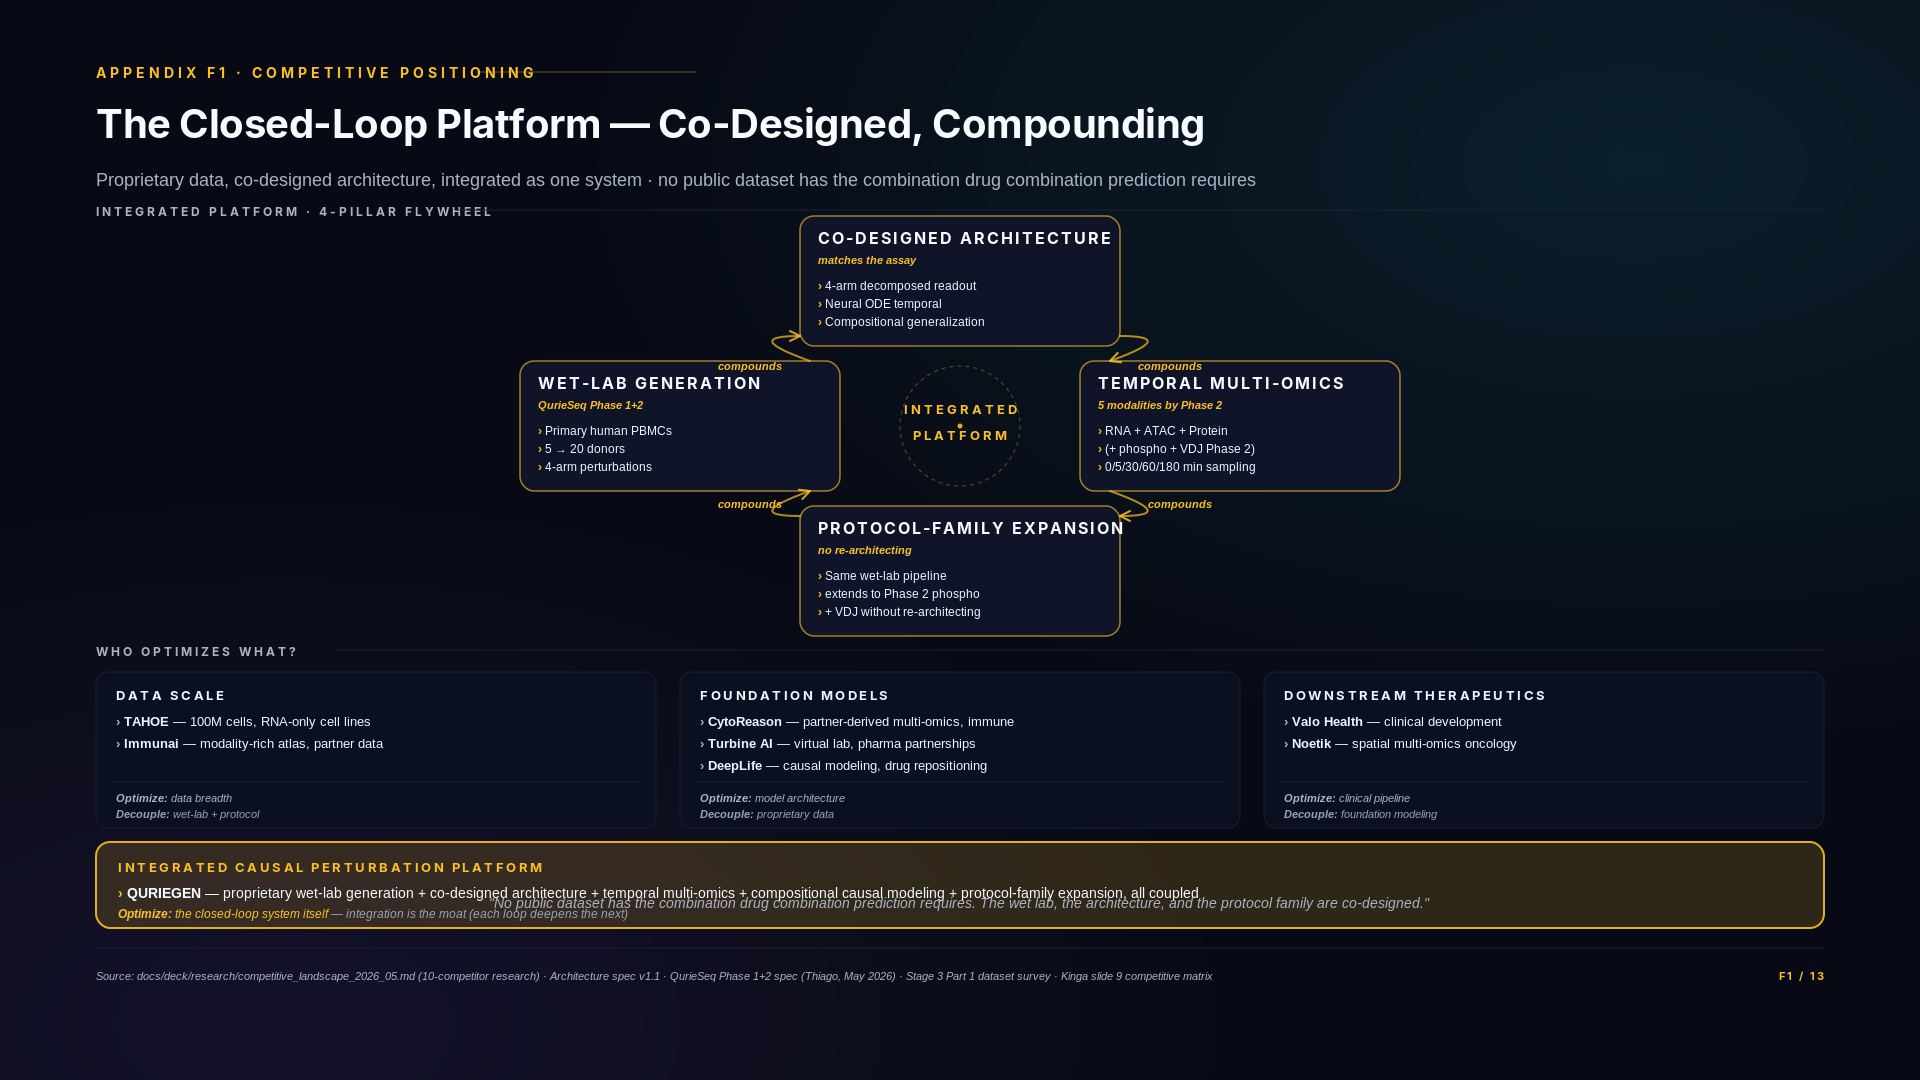
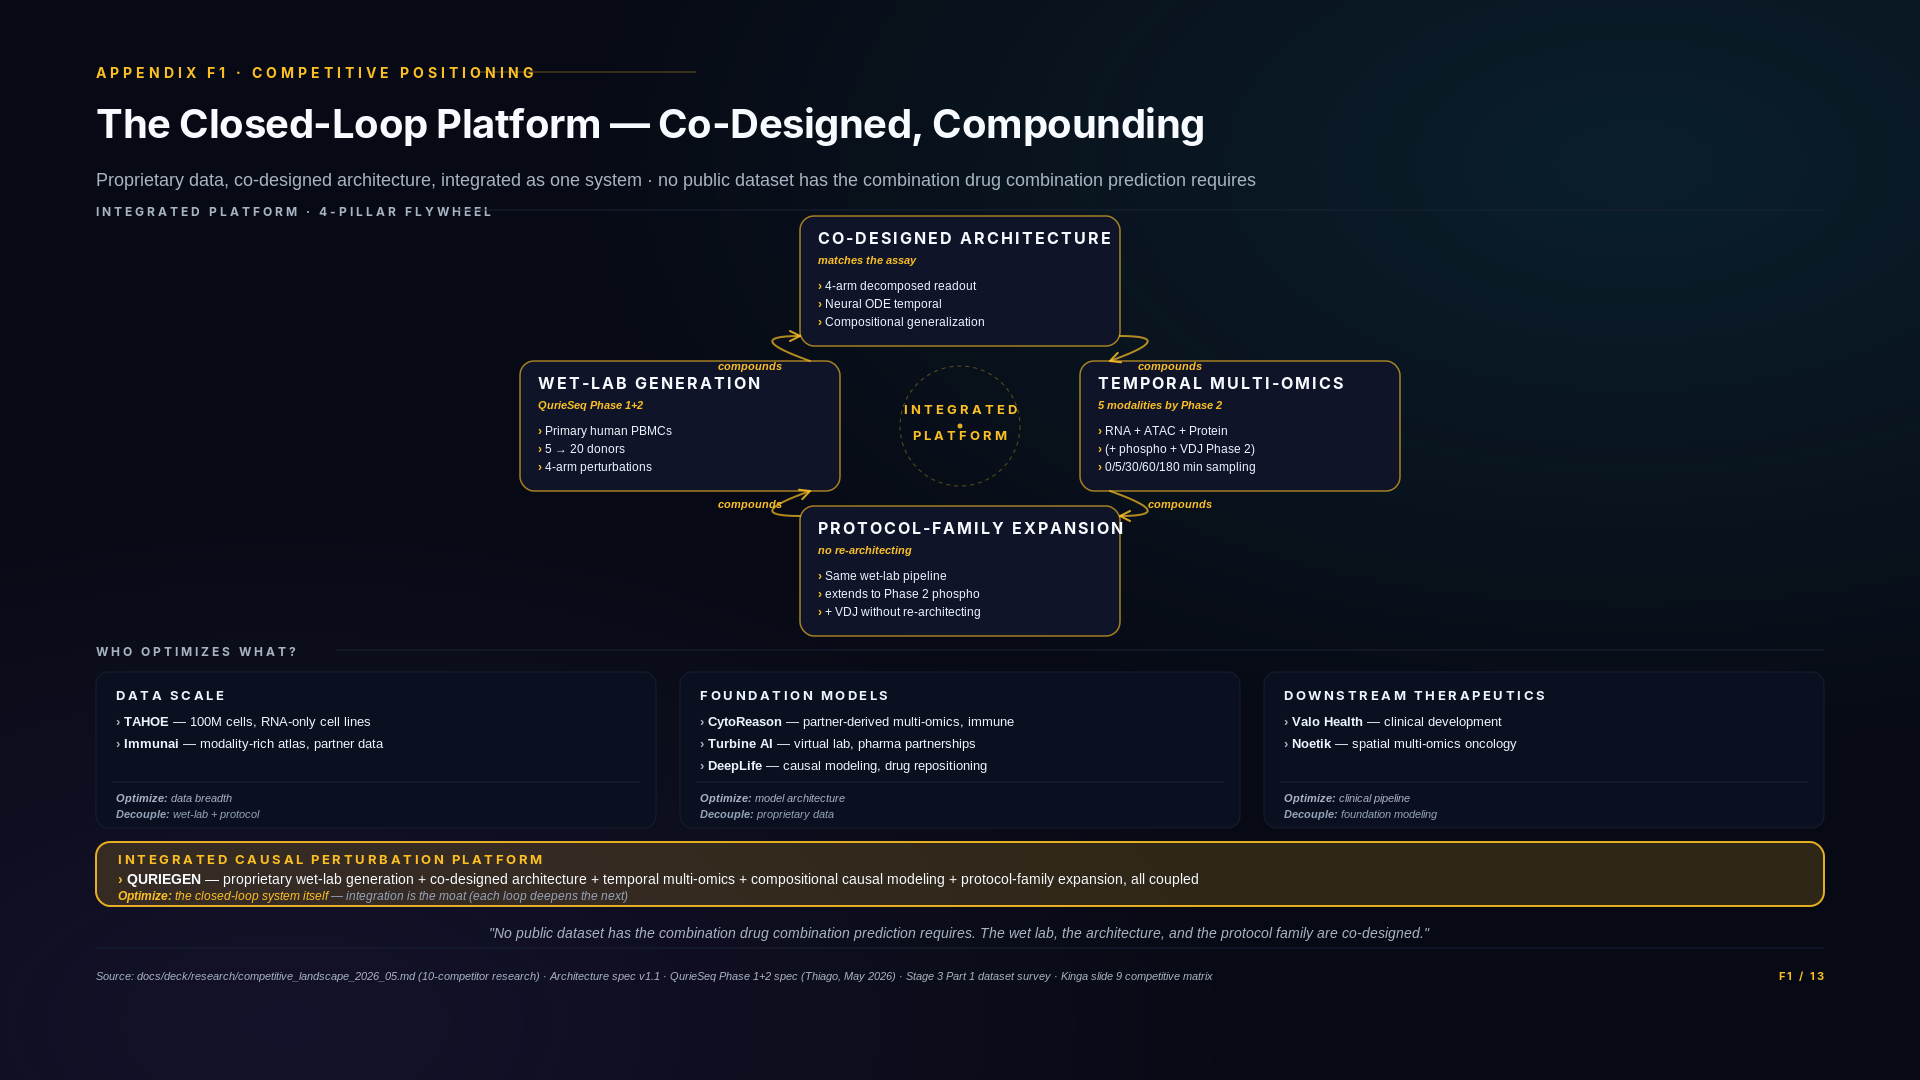
fix(deck): F1 v2 — closing line collision with Quriegen row
Closing italic line was rendering at y=908 inside the Quriegen row's
footprint (row text at y=898 / y=908 / y=918 — closing line sat
literally BETWEEN the Quriegen bullet and the Optimize line). Visually
read as a third Quriegen-row element rather than the takeaway it's
meant to be.

LAYOUT FIX (Option B from prompt — tighten line-height + reposition):
- Quriegen row compressed: QR_H 86 → 64. Internal baseline offsets
  shrunk from +30/+56/+76 to +22/+42/+58. Content unchanged; only
  spacing. Row rect now ends at y=906 (was y=928).
- Closing italic line moved from y=908 to y=938 — well below the
  compressed Quriegen row. Gap from row bottom (y=906) to closing-
  line top (y=926) = 20px exactly (meets prompt's 20px-gap criterion).
  Gap from closing-line bottom (y=940) to footer divider (y=948) = 8px
  — tight but adequate.

COLLISION-GUARD TIGHTENING (helper false-negative fix):
The v1 closing-line-vs-Quriegen-bullet collision had y-overlap of
exactly 4.0px. My builder called check_no_text_collisions with
min_gap=4 (strict '>' comparison), so 4.0 > 4 was FALSE and the
collision was missed silently. The filter scope ('Source:'-prefix +
F1/13 pagination) was correct — the problem was the threshold.

Builder now calls check_no_text_collisions(svg, min_gap=2). This:
- Catches the v1 4px-overlap class (would have failed v1 build)
- Still tolerates 1-2px sub-pixel anti-aliasing noise
- Verified: v2 layout is collision-free even at min_gap=0 (strictest)
[…]

Changed region(s): [[0.0312, 0.7944, 0.9688, 0.8861]]

diff --git a/docs/deck/assets/diagrams/_build_f1.py b/docs/deck/assets/diagrams/_build_f1.py
@@ -311,8 +311,12 @@ def build_svg() -> str:
         )
 
     # Full-width Quriegen row (amber accent, dominates)
+    # v2: tightened internal line-height (Option B from F1 v2 fix prompt) —
+    # row collapsed from QR_H=86 to QR_H=64 to free vertical budget for the
+    # closing line below. Per-line offsets shrunk +30/+56/+76 → +22/+42/+58.
+    # Content unchanged; only spacing.
     QR_Y = BUCKET_Y + BUCKET_H + 14
-    QR_H = 86
+    QR_H = 64
     parts.append(
         f'<rect x="{START_X}" y="{QR_Y}" width="{W - 2*START_X}" height="{QR_H}" rx="14" '
         f'fill="{ACCENT_AMBER}" fill-opacity="0.16" stroke="{ACCENT_AMBER}" '
@@ -320,13 +324,13 @@ def build_svg() -> str:
     )
     # Title (left)
     parts.append(
-        f'<text x="{START_X + 22}" y="{QR_Y + 30}" fill="{ACCENT_AMBER}" font-family="{FONT}" '
+        f'<text x="{START_X + 22}" y="{QR_Y + 22}" fill="{ACCENT_AMBER}" font-family="{FONT}" '
         f'font-size="13" font-weight="700" letter-spacing="2.5">'
         f'INTEGRATED CAUSAL PERTURBATION PLATFORM</text>'
     )
     # Quriegen line
     parts.append(
-        f'<text x="{START_X + 22}" y="{QR_Y + 56}" fill="{TEXT_TITLE}" font-family="{FONT_BODY}" '
+        f'<text x="{START_X + 22}" y="{QR_Y + 42}" fill="{TEXT_TITLE}" font-family="{FONT_BODY}" '
         f'font-size="14" font-weight="400">'
         f'<tspan fill="{ACCENT_AMBER}" font-weight="700">›</tspan>  '
         f'<tspan font-weight="700">QURIEGEN</tspan> — proprietary wet-lab generation '
@@ -335,17 +339,21 @@ def build_svg() -> str:
     )
     # Optimize line
     parts.append(
-        f'<text x="{START_X + 22}" y="{QR_Y + 76}" fill="{ACCENT_AMBER}" '
+        f'<text x="{START_X + 22}" y="{QR_Y + 58}" fill="{ACCENT_AMBER}" '
         f'font-family="{FONT_BODY}" font-size="12" font-style="italic">'
         f'<tspan font-weight="700">Optimize:</tspan> the closed-loop system itself '
         f'<tspan fill="{TEXT_DIM}">— integration is the moat (each loop deepens the next)</tspan></text>'
     )
 
     # ====================================================================
-    # CLOSING LINE — italic centered takeaway (above footer)
+    # CLOSING LINE — italic centered takeaway
+    # v2 FIX: moved from y=908 (which sat INSIDE the Quriegen row's
+    # footprint y=898-918) to y=938 — below the compressed Quriegen row
+    # (rect ends at y=QR_Y+64=906) with 20px gap above and 7px gap below
+    # to the footer divider at y=H-132=948.
     # ====================================================================
     parts.append(
-        f'<text x="{cx}" y="908" fill="{TEXT_MUTED}" font-family="{FONT_BODY}" '
+        f'<text x="{cx}" y="938" fill="{TEXT_MUTED}" font-family="{FONT_BODY}" '
         f'font-size="14" font-style="italic" text-anchor="middle">'
         f'"No public dataset has the combination drug combination prediction requires. '
         f'The wet lab, the architecture, and the protocol family are co-designed."</text>'
@@ -373,10 +381,18 @@ if __name__ == "__main__":
     png_path = here / "F1_integrated_platform_preview.png"
     svg = build_svg()
 
-    # Collision guard (filter known footer-vs-pagination false positive
-    # — long source-citation width estimate over-extends past pagination's
-    # text-anchor="end" position; cairosvg actual render is clean)
-    collisions = check_no_text_collisions(svg, min_gap=4)
+    # v2 FIX: tightened collision-guard min_gap 4 → 2 so near-collisions
+    # like v1's closing-line-vs-Quriegen-bullet (4.0px y-overlap, exactly
+    # at the old threshold) actually trip the guard. min_gap=2 still
+    # tolerates 1-2px sub-pixel anti-aliasing noise but no longer lets
+    # genuine ~3-4px overlaps slip through silently.
+    #
+    # Filter scope unchanged: ONLY the source-citation-vs-pagination
+    # false positive is skipped (the long Source: text width estimate
+    # over-extends past pagination's text-anchor="end" position, but
+    # cairosvg actual Inter render is clean). All other near-collisions
+    # block the build.
+    collisions = check_no_text_collisions(svg, min_gap=2)
     blocking = [c for c in collisions
                 if "F1 / 13" not in (c[0], c[1])
                 and not c[0].startswith("Source:")
